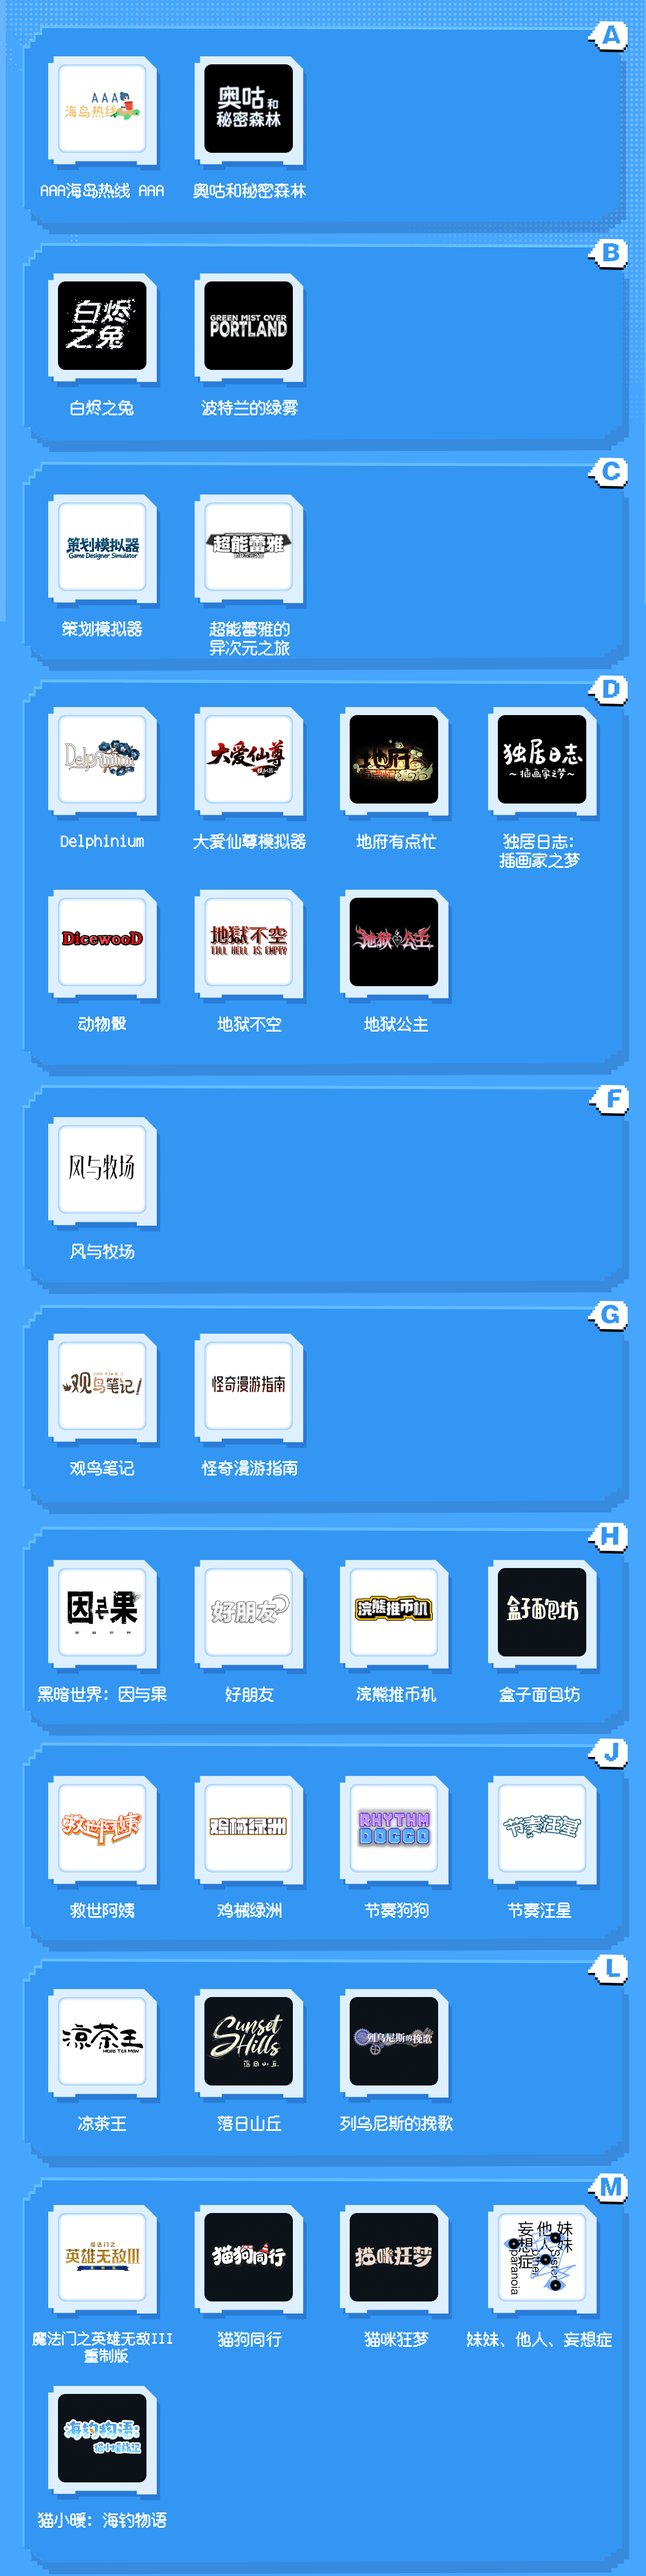
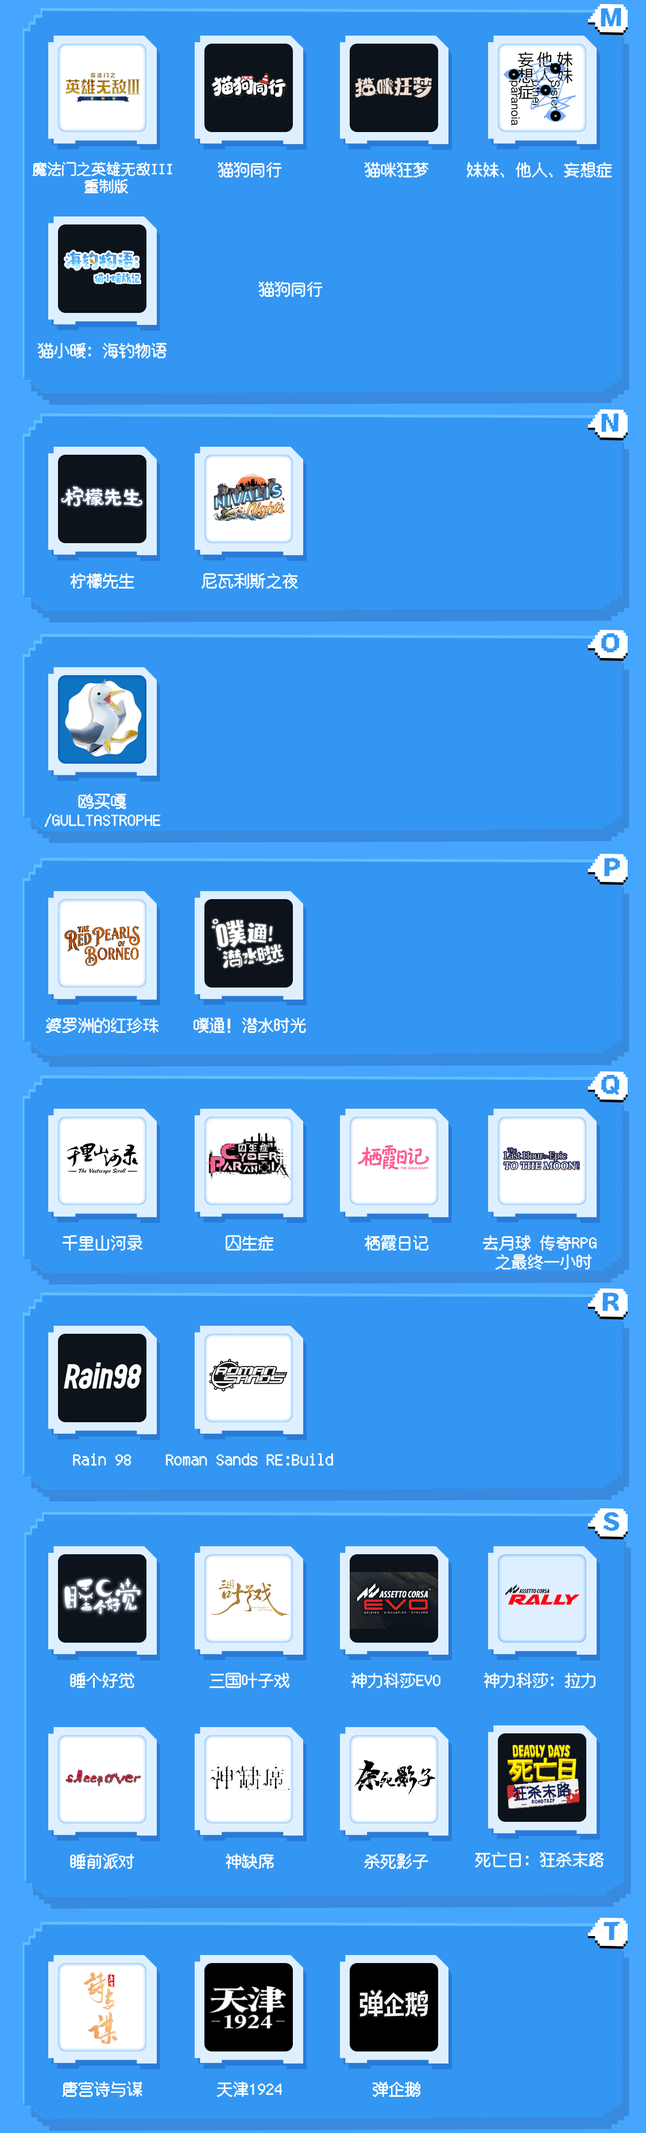
data: 按官方主会场 9/9 版更新展位一览；独立游戏名单更新为 84 款
- B16 → IP 贩售 · 宝藏码头；B18 文案更新；B06 补「PK」；B07 标点按官方
- C02 灰烬之国 Cinderia（9/9 版去掉摩登天空 GAMEHOUSE）；新增 C06 Servant of the Lake 湖之仆从
- C04 独立游戏试玩区；C13 GSE（文案更新）；C15 拉瑞安工作室；A28 代号：香；旧名放 alias 供搜索
- indie.js 改为对象结构（name / en / xhs? / url?），新增 背锅天神、GENTLY PACKED、狐狸饺子、恋爱从离别开始后、绿植小筑、鸥买嘎
- docs/raw 存 9/9 版主会场与独立游戏页 state，docs/assets 攻略半层 5 图与独立游戏页 4 图换成 9/9 版

diff --git a/src/data/booths.js b/src/data/booths.js
@@ -40,7 +40,7 @@ export const booths = [
   { id: 'A25a', zone: 'A', no: 'A25', ip: '鬼灭之刃', blurb: '潜入无限城，为鬼杀队传递生死战况', xhs: { uid: '6253b084000000001000a1aa', name: 'Aniplex' } },
   { id: 'A25b', zone: 'A', no: 'A25', ip: '孤独摇滚', blurb: '打卡 STARRY，解锁乐队开演秘事', xhs: { uid: '6253b084000000001000a1aa', name: 'Aniplex' } },
   { id: 'A27', zone: 'A', no: 'A27', ip: '无限暖暖', blurb: '游乐园即将开幕！和暖暖大喵一起进入 Nikki Land' },
-  { id: 'A28', zone: 'A', no: 'A28', ip: '代号香', blurb: '以香为媒，众神的气息由你调配' },
+  { id: 'A28', zone: 'A', no: 'A28', ip: '代号：香', alias: '代号香', blurb: '以香为媒，众神的气息由你调配' },
   { id: 'A29a', zone: 'A', no: 'A29', ip: '海绵宝宝', blurb: '登陆比奇堡欢乐海滩，坐超大水母秋千，畅享冲浪乐趣，打卡巨型菠萝屋！' },
   { id: 'A29b', zone: 'A', no: 'A29', ip: '忍者神龟', blurb: '潜入地下秘密基地，启动变异扫描仪，解锁忍者新招式。' },
   { id: 'A30', zone: 'A', no: 'A30', ip: '七界梦谭', blurb: '中式志怪冒险横跨昼夜，诡市修仙搓丹一展通' },
@@ -62,8 +62,8 @@ export const booths = [
   { id: 'B04a', zone: 'B', no: 'B04', ip: '永劫无间', blurb: '永劫无间首个沉浸式片场，好“菜”坞公开招募特邀主演！' },
   { id: 'B04b', zone: 'B', no: 'B04', ip: '暴雪游戏', blurb: '巨型吉安娜雕塑落地上海，快来重温你的赛博初恋！' },
   { id: 'B05', zone: 'B', no: 'B05', ip: '漫威影业', blurb: '漫威电影宇宙英雄“空降”复兴岛，复联五倒计时提前集结' },
-  { id: 'B06', zone: 'B', no: 'B06', ip: '无畏契约端手游', alias: 'VALORANT 源能行动', blurb: '瓦搭市集嗨翻天，舞台不设限，喊上搭子，尽兴开逛！' },
-  { id: 'B07', zone: 'B', no: 'B07', ip: '第五人格', blurb: '放假了，该来德茉里学院上学了' },
+  { id: 'B06', zone: 'B', no: 'B06', ip: '无畏契约端手游', alias: 'VALORANT 源能行动', blurb: '瓦搭市集嗨翻天，舞台 PK 不设限，喊上搭子，尽兴开逛！' },
+  { id: 'B07', zone: 'B', no: 'B07', ip: '第五人格', blurb: '放假了 该来德茉里学院上学了' },
   { id: 'B08', zone: 'B', no: 'B08', ip: '遗忘之海', blurb: '神秘船队强势登陆，全面接管冒险岛海岸线！*惊喜待升级' },
   { id: 'B09', zone: 'B', no: 'B09', ip: '重返未来：1999', blurb: '卡美洛古堡旧事重现，飞行女巫破空而来' },
   { id: 'B10', zone: 'B', no: 'B10', ip: '明日方舟', blurb: '罗德厨房记录着罗德岛干员们的日常饮食生活。' },
@@ -71,26 +71,27 @@ export const booths = [
   { id: 'B12', zone: 'B', no: 'B12', ip: '鸣潮', blurb: '心月狐降临！和众多“玩偶”一起开蹦！' },
   { id: 'B14', zone: 'B', no: 'B14', ip: '暗影成双', blurb: '回到 1941，请和 TA 抽取角色一秒入戏' },
   { id: 'B15', zone: 'B', no: 'B15', ip: '逆水寒', blurb: '星梦乐园 5A 景区开业，流派狂欢，一起开舞' },
-  { id: 'B16', zone: 'B', no: 'B16', ip: '宝藏码头', blurb: '各世界的冒险者在此归港，听说他们带来了不少宝藏……', xhs: { uid: '685ce6320000000008039c70', name: 'RED LAND' } },
-  { id: 'B18', zone: 'B', no: 'B18', ip: '火影忍者手游', blurb: '《火影忍者》手游启动！这一次，你就是主角！', xhs: { uid: '650b9eb20000000012007285', name: '火影忍者手游情报君' } },
+  { id: 'B16', zone: 'B', no: 'B16', ip: 'IP 贩售 · 宝藏码头', alias: '宝藏码头 IP贩售 谷子 集市', blurb: '各世界的冒险者在此归港，听说他们带来了不少宝藏……', xhs: { uid: '685ce6320000000008039c70', name: 'RED LAND' } },
+  { id: 'B18', zone: 'B', no: 'B18', ip: '火影忍者手游', blurb: '《火影忍者》手游启动！来修炼你的忍道，成为最强忍者学员！', xhs: { uid: '650b9eb20000000012007285', name: '火影忍者手游情报君' } },
   { id: 'B19', zone: 'B', no: 'B19', ip: 'CLUTCH', blurb: '摩纳哥海岸的昼夜双面世界，解锁速度与激情！' },
   { id: 'B22', zone: 'B', no: 'B22', ip: '心「DONG」冰品补给点', alias: '代号神不言 冰淇淋', blurb: '火热解冻中！@代号神不言 为主角输送冰淇淋！' },
 
   // ---------- C 区 ----------
   { id: 'C01', zone: 'C', no: 'C01', ip: '刺客信条：黑旗 记忆重置', blurb: '黑旗再度升起，登船扬帆加勒比' },
-  { id: 'C02', zone: 'C', no: 'C02', ip: '灰烬之国 + 摩登天空 GAMEHOUSE', blurb: '童话世界沾染灰烬，你我一同改写宿命。' },
+  { id: 'C02', zone: 'C', no: 'C02', ip: '灰烬之国 Cinderia', blurb: '童话世界沾染灰烬，你我一同改写宿命' },
   { id: 'C03a', zone: 'C', no: 'C03', ip: '乌合之众', blurb: '滴！通仙楼一日贵客体验卡，里边请~' },
   { id: 'C03b', zone: 'C', no: 'C03', ip: '沉星之序', blurb: '四大世界千种谜题！来 REDLAND 现场，推最极致的箱子。' },
-  { id: 'C04', zone: 'C', no: 'C04', ip: '独立游戏试验区', alias: '联想 ROG 西昊 傲风 雷蛇 独立游戏', blurb: '（联想、ROG、西昊、傲风、雷蛇）独立游戏大食堂：各有独门一手，等你大试一口。近百款独立游戏集中上桌。' },
+  { id: 'C04', zone: 'C', no: 'C04', ip: '独立游戏试玩区', alias: '独立游戏 联想 ROG 西昊 傲风 雷蛇', blurb: '独立游戏大食堂：各有独门一手，等你大试一口。' },
   { id: 'C05', zone: 'C', no: 'C05', ip: '女神异闻录4 Revival', blurb: '制作人空降，特别搜查队集结，一起重返八十稻羽！' },
+  { id: 'C06', zone: 'C', no: 'C06', ip: 'Servant of the Lake 湖之仆从', alias: '湖之仆从 VANDERBOOM', blurb: 'VANDERBOOM 宅邸的铁门已然推开——欢迎就任，湖之仆从' },
   { id: 'C07', zone: 'C', no: 'C07', ip: '苏丹的游戏', blurb: '来舍馆与猛男一饭封神，备欢宴赢苏丹的赏赐！' },
   { id: 'C08', zone: 'C', no: 'C08', ip: '猛兽派对', blurb: '这里有一只小黄狗，嗷' },
   { id: 'C09', zone: 'C', no: 'C09', ip: '世界之外', blurb: '踏进黄金之地，书写你的权欲篇章' },
   { id: 'C10', zone: 'C', no: 'C10', ip: 'FINAL FANTASY RESONANCE', alias: '最终幻想 共鸣', blurb: '（最终幻想：共鸣）历代系列主角集结，幻兵水晶之中召唤共鸣记忆！' },
   { id: 'C12', zone: 'C', no: 'C12', ip: 'MoeLive / hololive production', blurb: '偶像降临！解锁专属你的跨次元羁绊' },
-  { id: 'C13', zone: 'C', no: 'C13', ip: '任天堂 GSE', blurb: '乘着节奏，听从指令向前进吧~！！' },
+  { id: 'C13', zone: 'C', no: 'C13', ip: 'GSE', alias: '任天堂 斯普拉遁 啦嗒铛 Splatoon', blurb: '等身比充气啦嗒铛打卡，斯普拉遁 涂击队合照区以及多款游戏试玩' },
   { id: 'C14', zone: 'C', no: 'C14', ip: '声探疑云', blurb: '首创声音探案体验馆，化身声探，推理破案！' },
-  { id: 'C15', zone: 'C', no: 'C15', ip: '神界（拉瑞安）', alias: '神界原罪2 Larian', blurb: '闯入地图外的阿克斯市集，开启一场奇货冒险' },
+  { id: 'C15', zone: 'C', no: 'C15', ip: '拉瑞安工作室', alias: '神界 神界原罪2 Larian', blurb: '闯入地图外的阿克斯市集，开启一场奇货冒险' },
   { id: 'C16', zone: 'C', no: 'C16', ip: '宝可梦集换式卡牌游戏', alias: 'PTCG', blurb: '宝可梦卡牌体验营开启，教学、对战、打卡，等你来玩！', xhs: { uid: '65d54e280000000017014262', name: 'Pokemon宝可梦' } },
   { id: 'C17', zone: 'C', no: 'C17', ip: '航海王卡牌对战', blurb: '让我们一起扬帆出海开启冒险之旅！' },
   { id: 'C18', zone: 'C', no: 'C18', ip: '闪魂', blurb: '穿越次元裂缝，觉醒你的主角之魂' },

diff --git a/src/data/indie.js b/src/data/indie.js
@@ -1,23 +1,44 @@
-// C04 独立游戏试验区 · 试玩名单（官方独立游戏聚合页，按首字母排列）
+// C04 独立游戏试玩区 · 试玩名单
+// 来源：RED LAND 官方「独立游戏聚合页」（ditto 页 93f070416d60405ea59f29bb691a0df3，主会场 IP 半层底部「独立游戏试玩区」入口），
+//       官方按首字母缩写排序，页尾注「*所有IP按照首字母缩写顺序排列」。2026-09-09 16:51 版共 84 款（8/29 版 78 款，9/9 新增 6 款）。
+// 每项 { name, en?, xhs?: { uid, name }, url? }：
+//   name 为官方页标签原文；en 为官方并列的英文名；xhs 为该游戏 / 工作室的小红书账号（官方页目前没有关注组件与热区，待补，
+//   补上后详情页自动渲染 📕 跳转）；url 为该游戏的攻略链接（待补，有则名字可点）。
+const g = (name, en) => (en ? { name, en } : { name })
+
+export const indieSource = {
+  title: 'RED LAND 独立游戏试玩区 · 近百款独立游戏集中上桌，欢迎登岛品鉴',
+  url: 'https://xhslink.com/m/4VL27MmQ48U',
+  pageId: '93f070416d60405ea59f29bb691a0df3',
+  author: 'RED LAND 官方',
+  lastEditTime: '2026-09-09 16:51:52',
+}
+
 export const indieGames = [
-  { letter: 'A', games: ['AAA海岛热线 AAA', '奥咕和秘密森林'] },
-  { letter: 'B', games: ['白烬之兔', '波特兰的绿雾'] },
-  { letter: 'C', games: ['策划模拟器', '超能蕾雅的异次元之旅'] },
-  { letter: 'D', games: ['Delphinium', '大爱仙尊模拟器', '地府有点忙', '独居日志：插画家之梦', '动物骰', '地狱不空', '地狱公主'] },
-  { letter: 'F', games: ['风与牧场'] },
-  { letter: 'G', games: ['观鸟笔记', '怪奇漫游指南'] },
-  { letter: 'H', games: ['黑暗世界：因与果', '好朋友', '浣熊推币机', '盒子面包坊'] },
-  { letter: 'J', games: ['救世阿姨', '鸡械绿洲', '节奏狗狗', '节奏汪星'] },
-  { letter: 'L', games: ['凉茶王', '落日山丘', '列乌尼斯的挽歌'] },
-  { letter: 'M', games: ['魔法门之英雄无敌III 重制版', '猫狗同行', '猫咪狂梦', '妹妹、他人、妄想症', '猫小暖：海钓物语'] },
-  { letter: 'N', games: ['柠檬先生', '尼瓦利斯之夜'] },
-  { letter: 'P', games: ['婆罗洲的红珍珠', '噗通！潜水时光'] },
-  { letter: 'Q', games: ['千里山河录', '囚生症', '栖霞日记', '去月球 传奇RPG之最终一小时'] },
-  { letter: 'R', games: ['Rain98', 'Roman Sands RE:Build'] },
-  { letter: 'S', games: ['睡个好觉', '三国叶子戏', '神力科莎 EVO', '神力科莎：拉力', '睡前派对', '神缺席', '杀死影子', '死亡日：狂杀末路'] },
-  { letter: 'T', games: ['唐宫诗与谋', '天津1924', '弹企鹅'] },
-  { letter: 'W', games: ['我不是胖虎：小岛大当家'] },
-  { letter: 'X', games: ['星环便利店', '小黑鹂', '箱即是空', '星幕协约', '星砂岛', '小苔屋', '小小的岛', '蟹蟹狂想曲', '小熊牌屋', '仙乡小千金', '血月', '玄玉劫'] },
-  { letter: 'Y', games: ['一笔勾销', '异变金属', '摇摆沼泽', '炎拳天使', '异兔传说', '银翼喵侍', '宇宙怪谈'] },
-  { letter: 'Z', games: ['醉风酒', '铸星工厂', '只有姐姐的世界', '斩业人', '骤雨终日'] },
+  { letter: 'A', games: [g('AAA海岛热线'), g('奥咕和秘密森林')] },
+  { letter: 'B', games: [g('白烬之兔'), g('波特兰的绿雾'), g('背锅天神')] },
+  { letter: 'C', games: [g('策划模拟器'), g('超能蕾雅的异次元之旅')] },
+  { letter: 'D', games: [g('Delphinium'), g('大爱仙尊模拟器'), g('地府有点忙'), g('独居日志：插画家之梦'), g('动物骰'), g('地狱不空'), g('地狱公主')] },
+  { letter: 'F', games: [g('风与牧场')] },
+  { letter: 'G', games: [g('观鸟笔记'), g('怪奇漫游指南'), g('GENTLY PACKED')] },
+  { letter: 'H', games: [g('黑暗世界：因与果'), g('好朋友'), g('浣熊推币机'), g('盒子面包坊'), g('狐狸饺子', 'FOXY DUMPLINGS')] },
+  { letter: 'J', games: [g('救世阿姨'), g('鸡械绿洲'), g('节奏狗狗'), g('节奏汪星')] },
+  { letter: 'L', games: [g('凉茶王'), g('落日山丘'), g('列乌尼斯的挽歌'), g('恋爱从离别开始后'), g('绿植小筑')] },
+  { letter: 'M', games: [g('魔法门之英雄无敌III 重制版'), g('猫狗同行'), g('猫咪狂梦'), g('妹妹、他人、妄想症'), g('猫小暖：海钓物语')] },
+  { letter: 'N', games: [g('柠檬先生'), g('尼瓦利斯之夜')] },
+  { letter: 'O', games: [g('鸥买嘎', 'GULLTASTROPHE')] },
+  { letter: 'P', games: [g('婆罗洲的红珍珠'), g('噗通！潜水时光')] },
+  { letter: 'Q', games: [g('千里山河录'), g('囚生症'), g('栖霞日记'), g('去月球 传奇RPG之最终一小时')] },
+  { letter: 'R', games: [g('Rain 98'), g('Roman Sands RE:Build')] },
+  { letter: 'S', games: [g('睡个好觉'), g('三国叶子戏'), g('神力科莎EVO'), g('神力科莎：拉力'), g('睡前派对'), g('神缺席'), g('杀死影子'), g('死亡日：狂杀末路')] },
+  { letter: 'T', games: [g('唐宫诗与谋'), g('天津1924'), g('弹企鹅')] },
+  { letter: 'W', games: [g('我不是胖虎：小岛大当家')] },
+  {
+    letter: 'X',
+    games: [g('星环便利店'), g('小黑鹂'), g('箱即是空'), g('星幕协约'), g('星砂岛'), g('小苔屋'), g('小小的岛'), g('蟹蟹狂想曲'), g('小熊牌屋'), g('仙乡小千金'), g('血月'), g('玄玉劫')],
+  },
+  { letter: 'Y', games: [g('一笔勾销'), g('异变金属'), g('摇摆沼泽'), g('炎拳天使'), g('异兔传说'), g('银翼喵侍'), g('宇宙怪谈')] },
+  { letter: 'Z', games: [g('醉风酒'), g('铸星工厂'), g('只有姐姐的世界'), g('斩业人'), g('骤雨终日')] },
 ]
+
+export const indieCount = indieGames.reduce((n, x) => n + x.games.length, 0)
